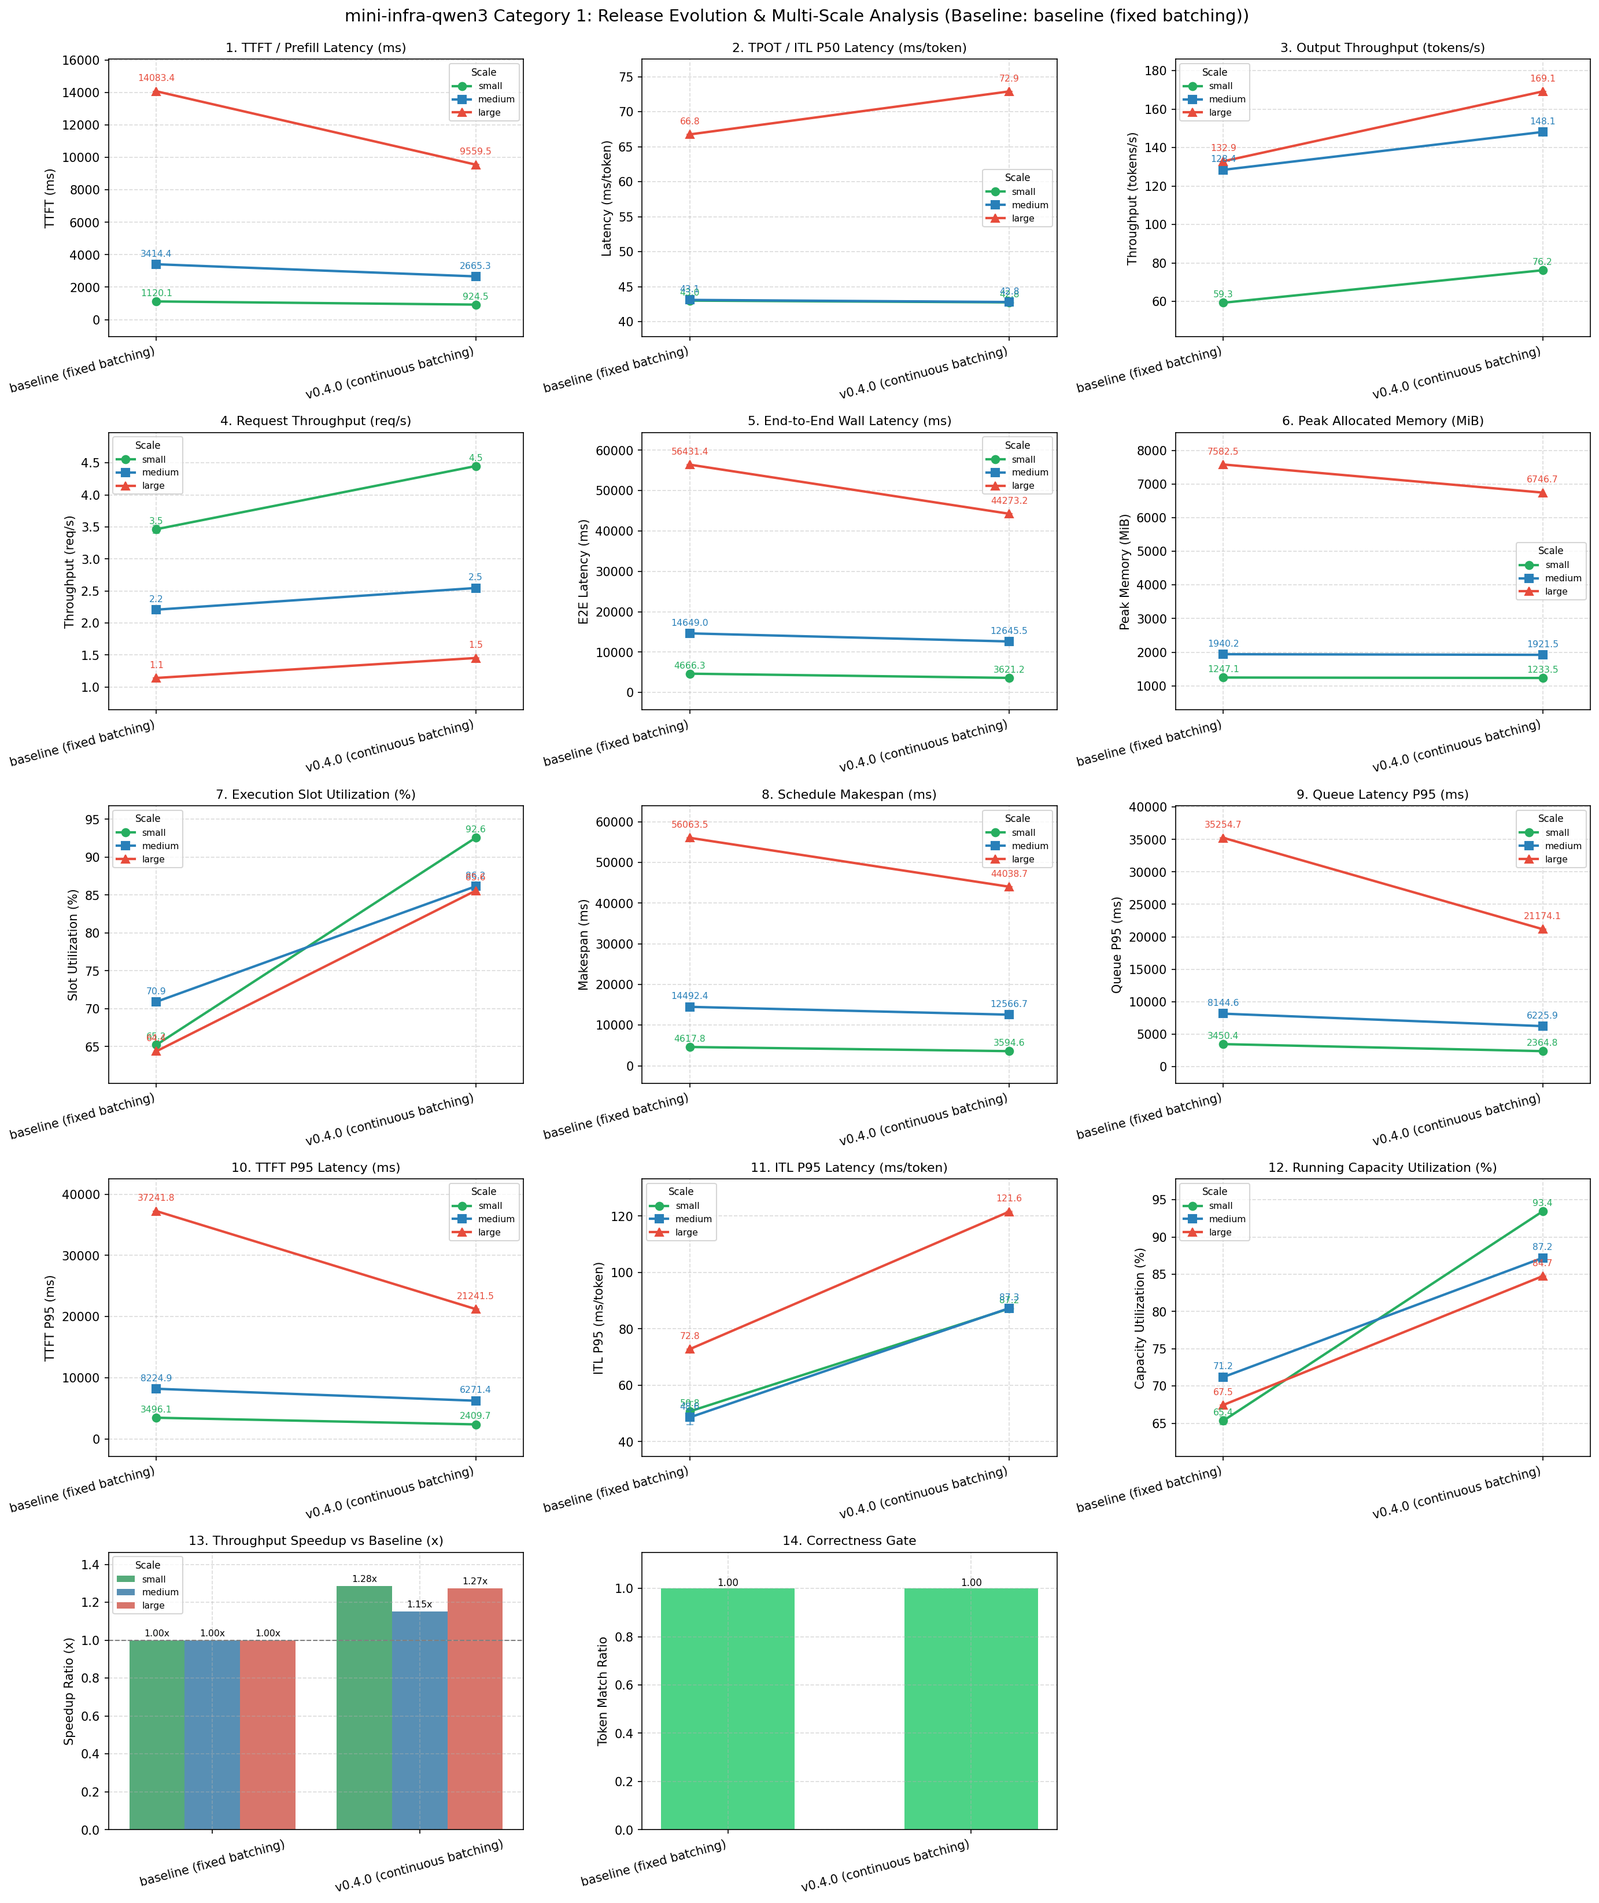
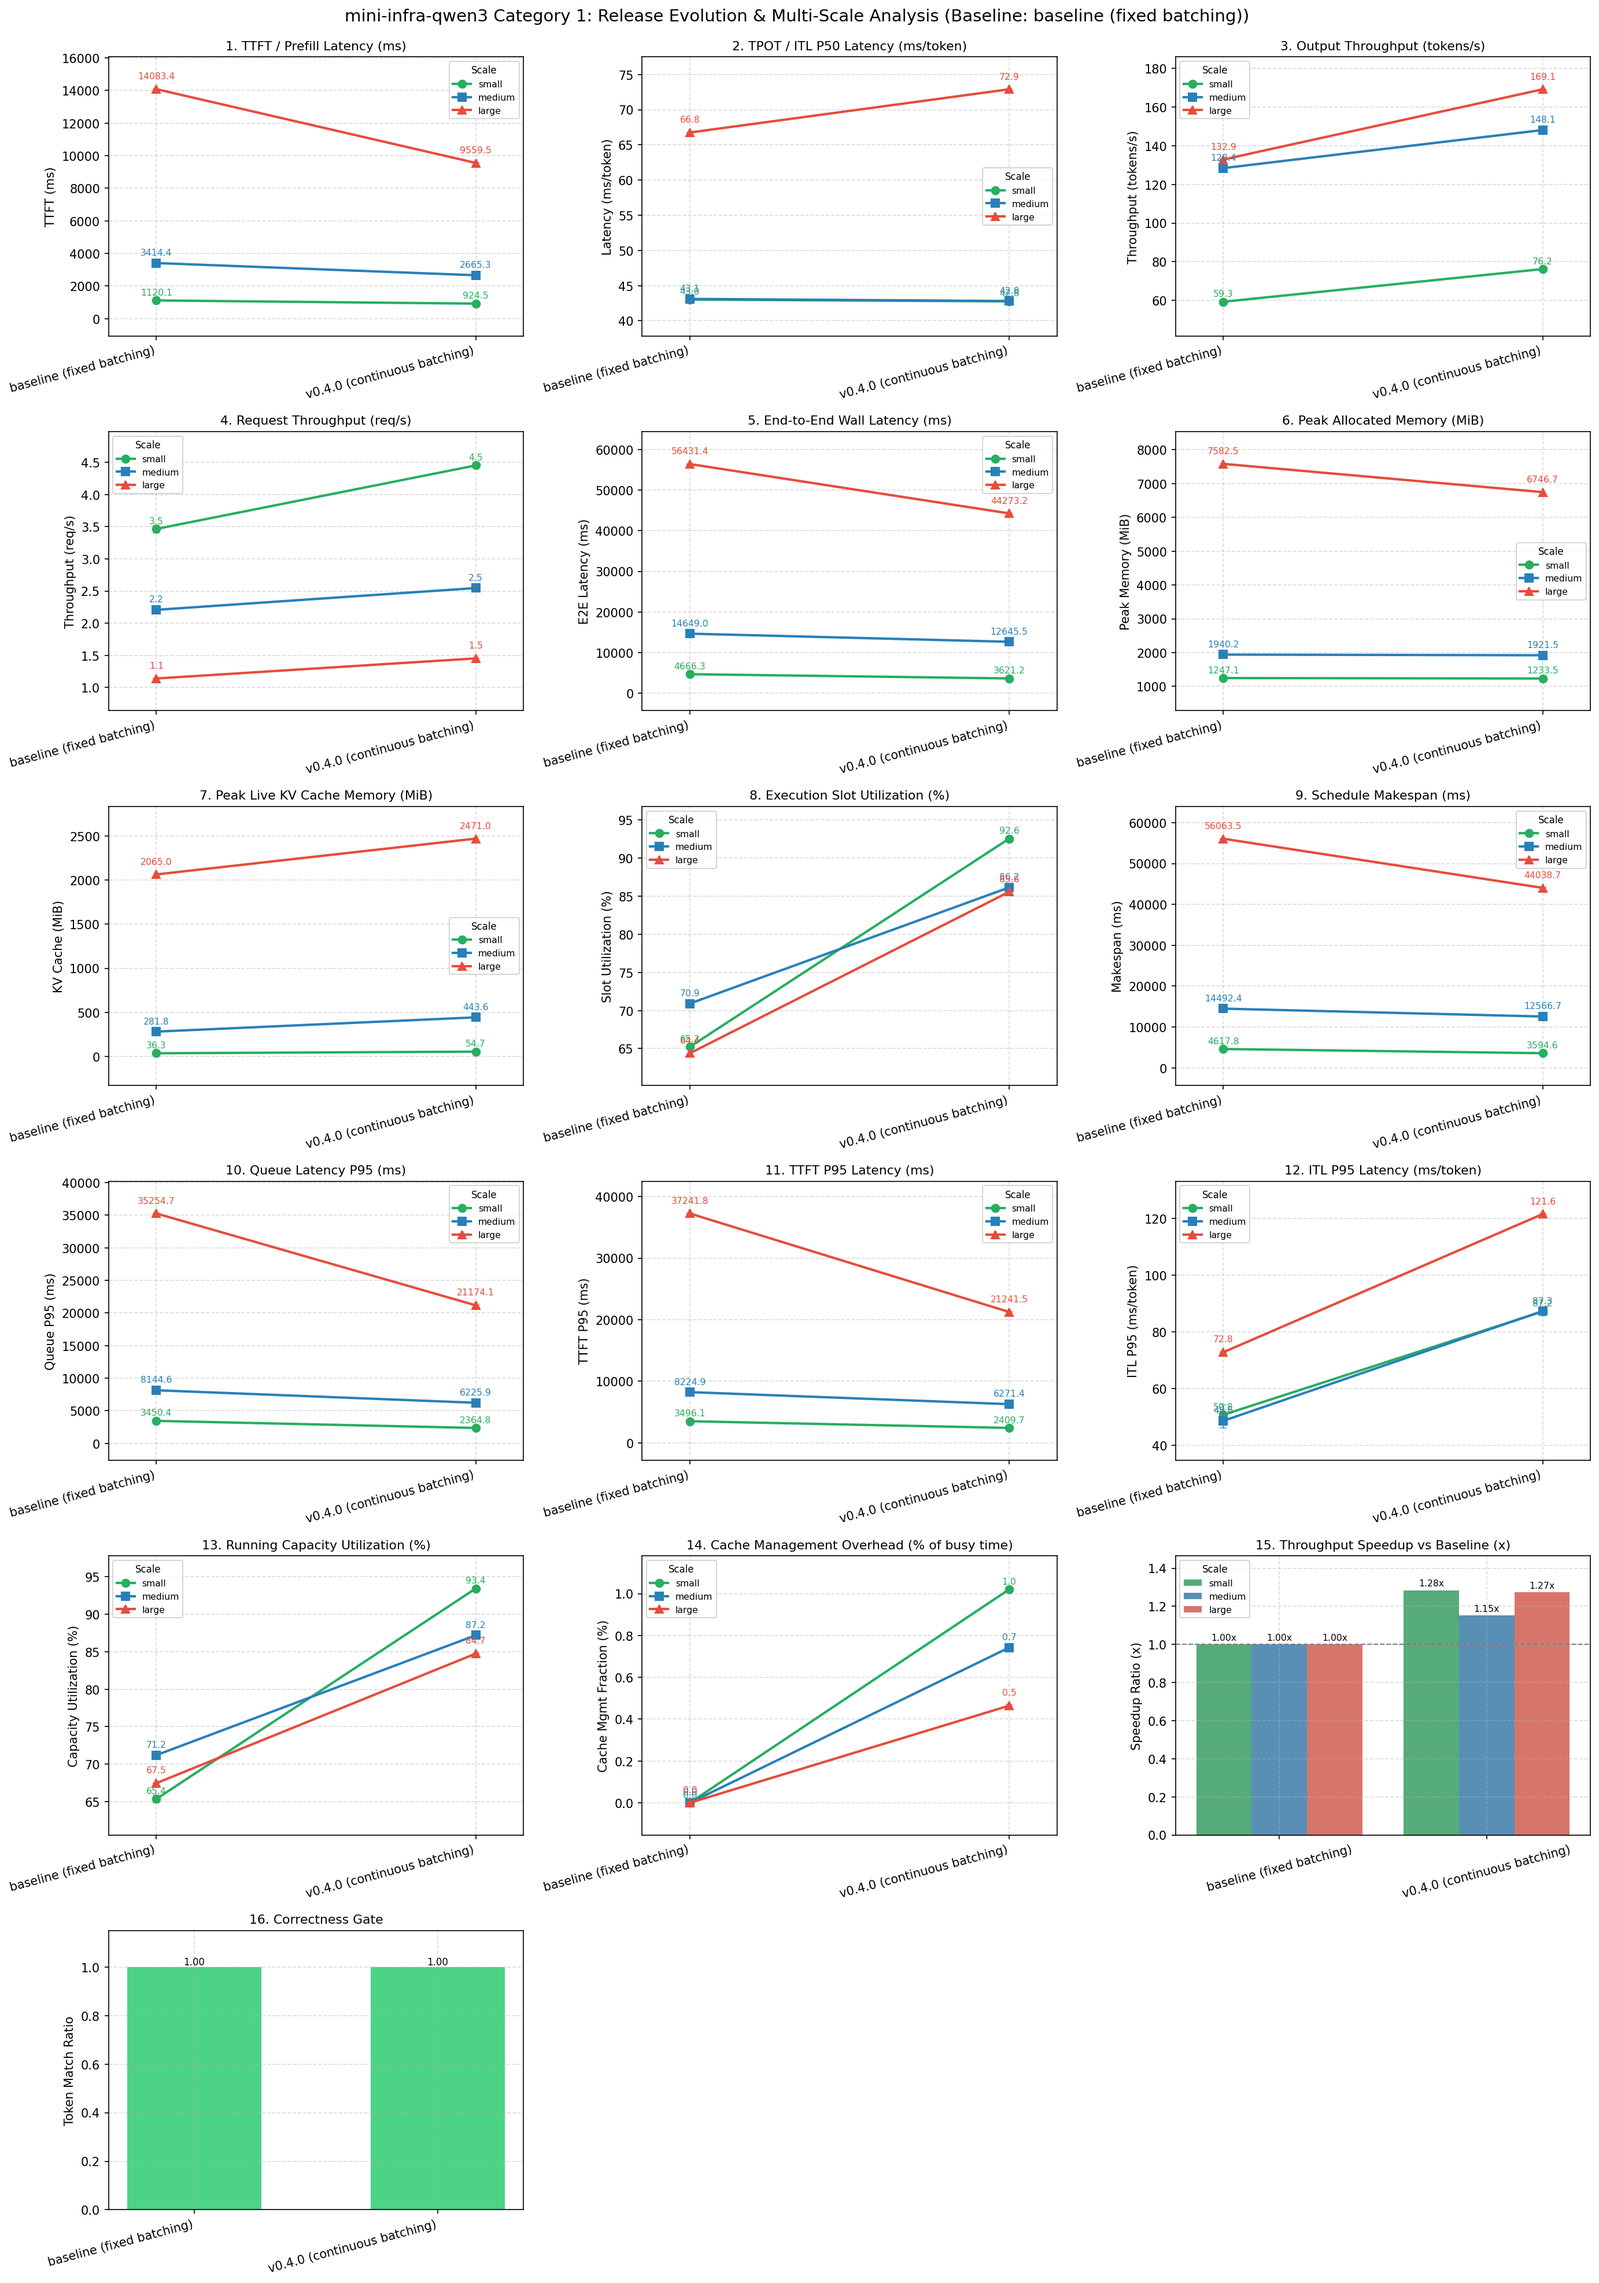
feat(benchmark plotting): add kv cache and cache management metrics support

diff --git a/src/mini_infra/bench/plotting/tidy.py b/src/mini_infra/bench/plotting/tidy.py
@@ -33,6 +33,7 @@ SHARED_PLOT_SPECS: tuple[MetricPlotSpec, ...] = (
     MetricPlotSpec("throughput_req_s", "Request Throughput (req/s)", "Throughput (req/s)"),
     MetricPlotSpec("e2e_wall_ms", "End-to-End Wall Latency (ms)", "E2E Latency (ms)"),
     MetricPlotSpec("peak_allocated_mb", "Peak Allocated Memory (MiB)", "Peak Memory (MiB)"),
+    MetricPlotSpec("kv_cache_mb", "Peak Live KV Cache Memory (MiB)", "KV Cache (MiB)"),
     MetricPlotSpec(
         "slot_utilization",
         "Execution Slot Utilization (%)",
@@ -54,6 +55,12 @@ SCHEDULER_ONLY_PLOT_SPECS: tuple[MetricPlotSpec, ...] = (
         "running_capacity_utilization",
         "Running Capacity Utilization (%)",
         "Capacity Utilization (%)",
+        scale=100.0,
+    ),
+    MetricPlotSpec(
+        "cache_management_fraction",
+        "Cache Management Overhead (% of busy time)",
+        "Cache Mgmt Fraction (%)",
         scale=100.0,
     ),
 )
@@ -199,10 +206,14 @@ def records_to_wide_df(
             if src in wide_df.columns:
                 extra_cols[dst] = wide_df[src]
 
-    # 4. 统一标量/分布混合指标：peak_allocated_mb 与无 packing 单请求记录的 slot_utilization 默认回退
+    # 4. 统一标量/分布混合指标：peak_allocated_mb、kv_cache_mb 与无 packing 单请求记录的 slot_utilization 默认回退
     if "memory.peak_allocated_mb" in wide_df.columns:
         extra_cols["peak_allocated_mb.median"] = wide_df["memory.peak_allocated_mb"]
         extra_cols["peak_allocated_mb.std"] = 0.0
+
+    if "memory.kv_cache_mb" in wide_df.columns:
+        extra_cols["kv_cache_mb.median"] = wide_df["memory.kv_cache_mb"]
+        extra_cols["kv_cache_mb.std"] = 0.0
 
     if "slot_utilization.median" in extra_cols:
         extra_cols["slot_utilization.median"] = extra_cols["slot_utilization.median"].fillna(1.0)

diff --git a/src/mini_infra/bench/plotting/history.py b/src/mini_infra/bench/plotting/history.py
@@ -374,13 +374,15 @@ def plot_profiling_and_optimization(records: list[Any], target_rec: Any, out_pat
         slot_u = (pack.get("slot_utilization") or {}).get("median", 0.0)
         cap_u = (pack.get("running_capacity_utilization") or {}).get("median", 0.0)
         pad_e = (pack.get("padding_efficiency") or {}).get("median", 0.0)
+        cache_frac = ((w.get("schedule") or {}).get("cache_management_fraction") or {}).get("median", 0.0)
         ceil_items = [
             ("Slot Util", 100.0 * float(slot_u), "#2980b9"),
             ("Capacity Util", 100.0 * float(cap_u), "#8e44ad"),
             ("Padding Eff", 100.0 * float(pad_e), "#e67e22"),
             ("GPU Busy", 100.0 * float(gpu_busy if gpu_busy is not None else 0.0), "#27ae60"),
+            ("Cache Mgmt", 100.0 * float(cache_frac), "#e74c3c"),
         ]
-        title_21 = "2.1 Scheduler & GPU Utilization (Slot / Capacity / Padding / Busy)"
+        title_21 = "2.1 Scheduler & GPU Utilization (Slot / Capacity / Padding / Busy / Cache Mgmt)"
     else:
         eff = w.get("efficiency") or {}
         ceil_items = [

diff --git a/src/mini_infra/bench/plotting/compare.py b/src/mini_infra/bench/plotting/compare.py
@@ -52,10 +52,18 @@ def resolve_label(rec: Any, custom: str | None = None) -> str:
     return resolve_record_label(rec, custom)
 
 
+# 显存容量类指标（以 MiB 绝对增量展示变化）
+_MEMORY_MB_KEYS = {"peak_allocated_mb", "kv_cache_mb"}
+# 占比类指标（tidy 阶段已 *100，以百分点绝对增量展示变化）
+_FRACTION_KEYS = {"cache_management_fraction"}
+
+
 def _format_delta(metric_key: str, val_a: float, val_b: float) -> str:
     """根据指标物理性质格式化 A -> B 的相对变化（加速比或显存增量）。"""
-    if metric_key == "peak_allocated_mb":
+    if metric_key in _MEMORY_MB_KEYS:
         return f"{val_b - val_a:+.1f} MiB"
+    if metric_key in _FRACTION_KEYS:
+        return f"{val_b - val_a:+.2f} pp"
     if metric_key in _LATENCY_KEYS:
         ratio = val_a / val_b if val_b > 0 else 1.0
         return f"**{ratio:.2f}x**"
